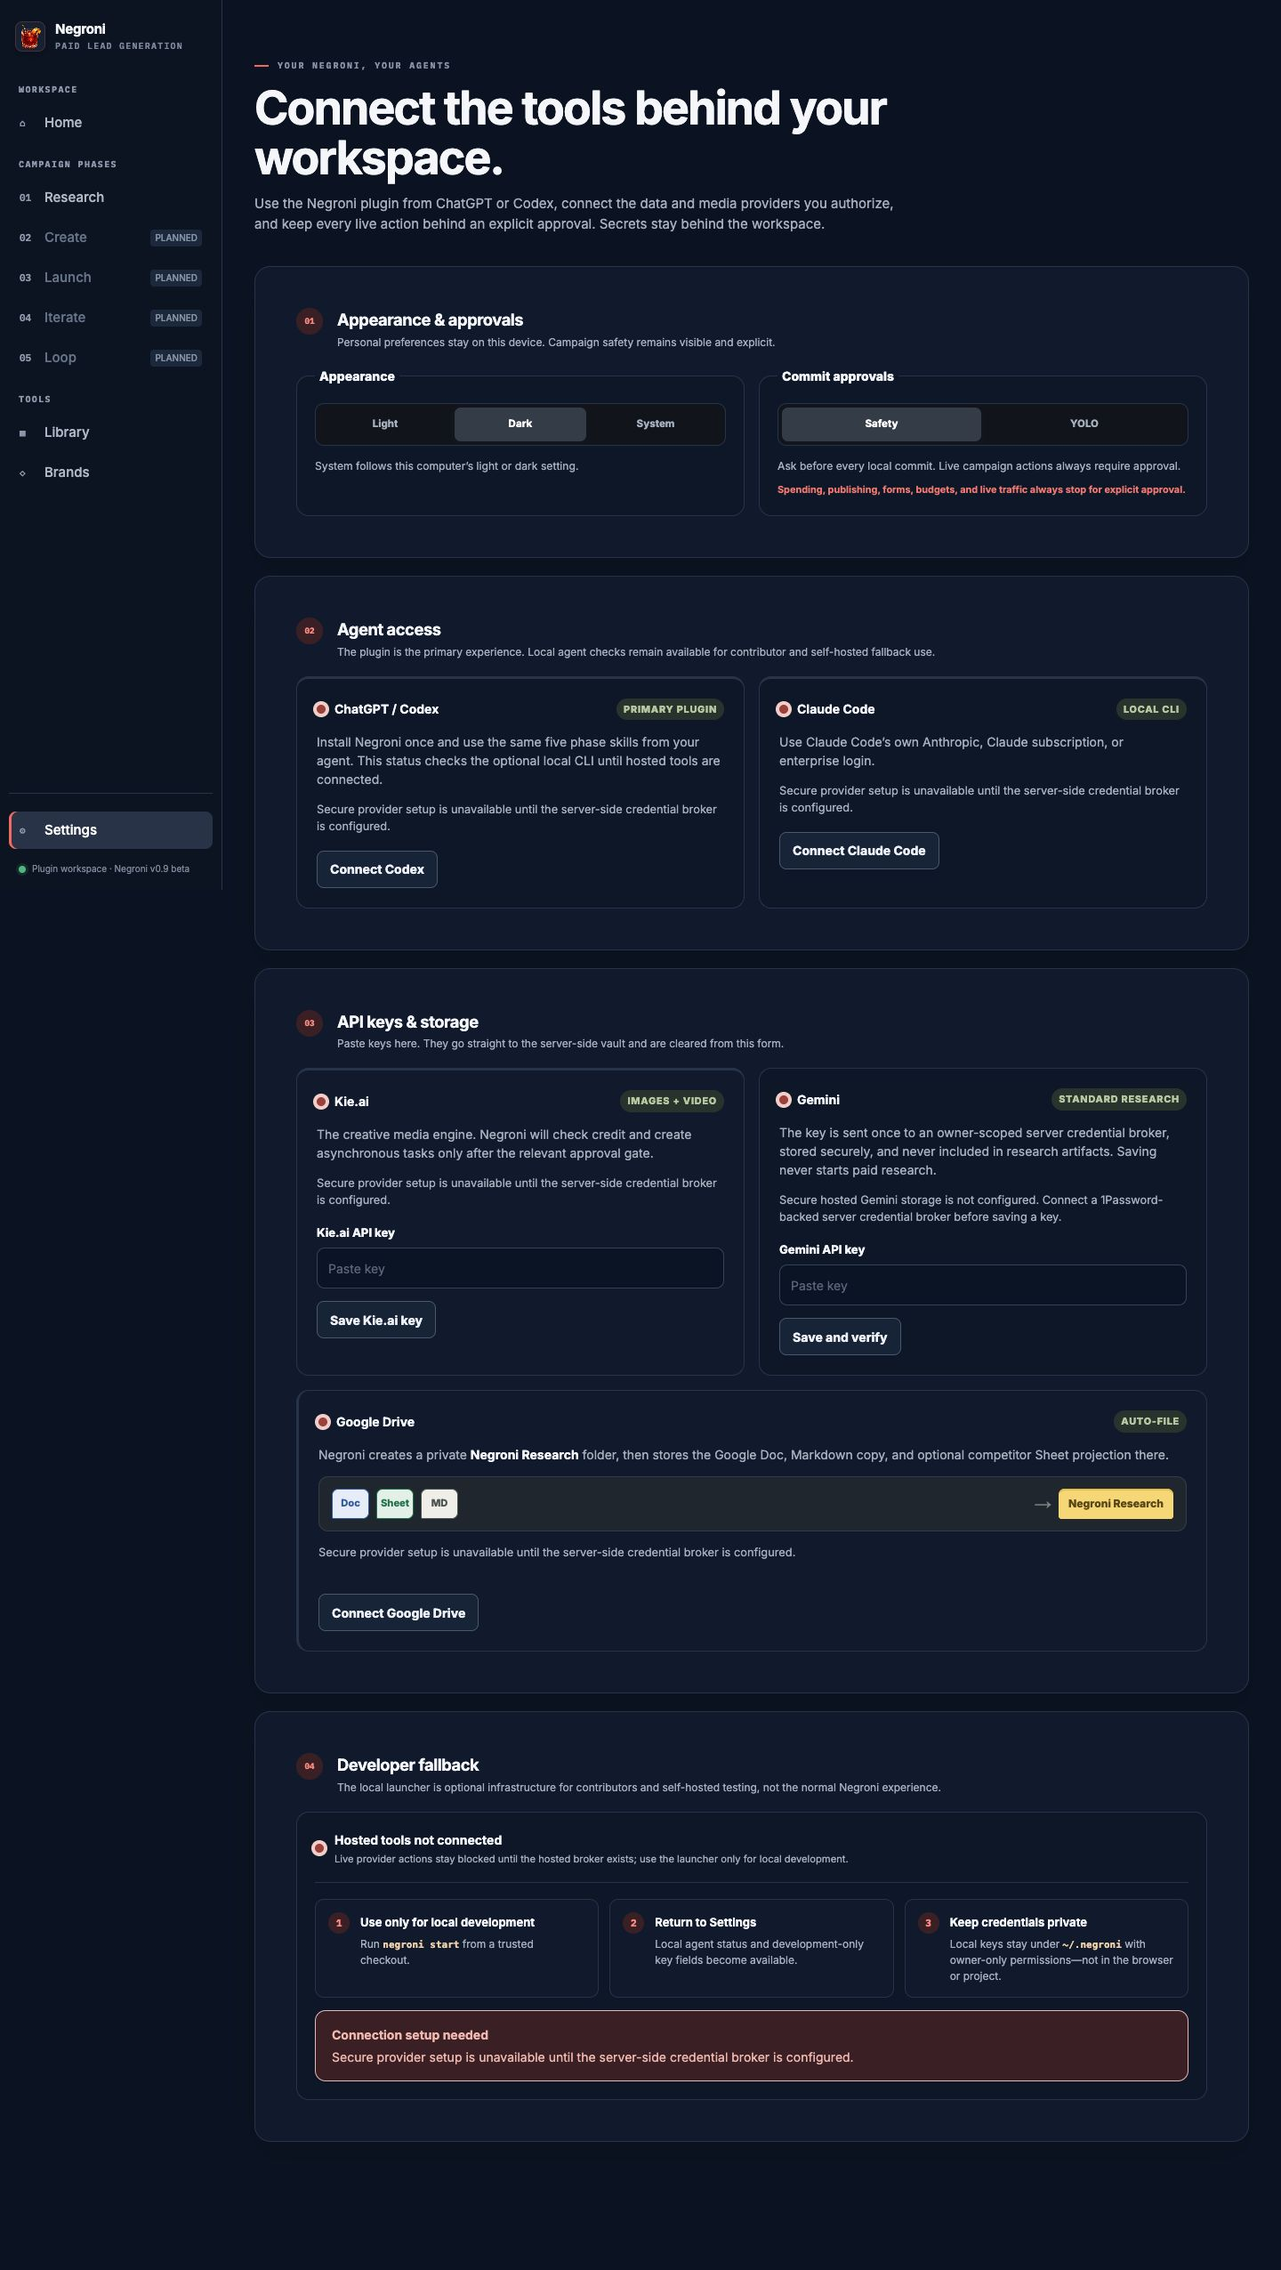
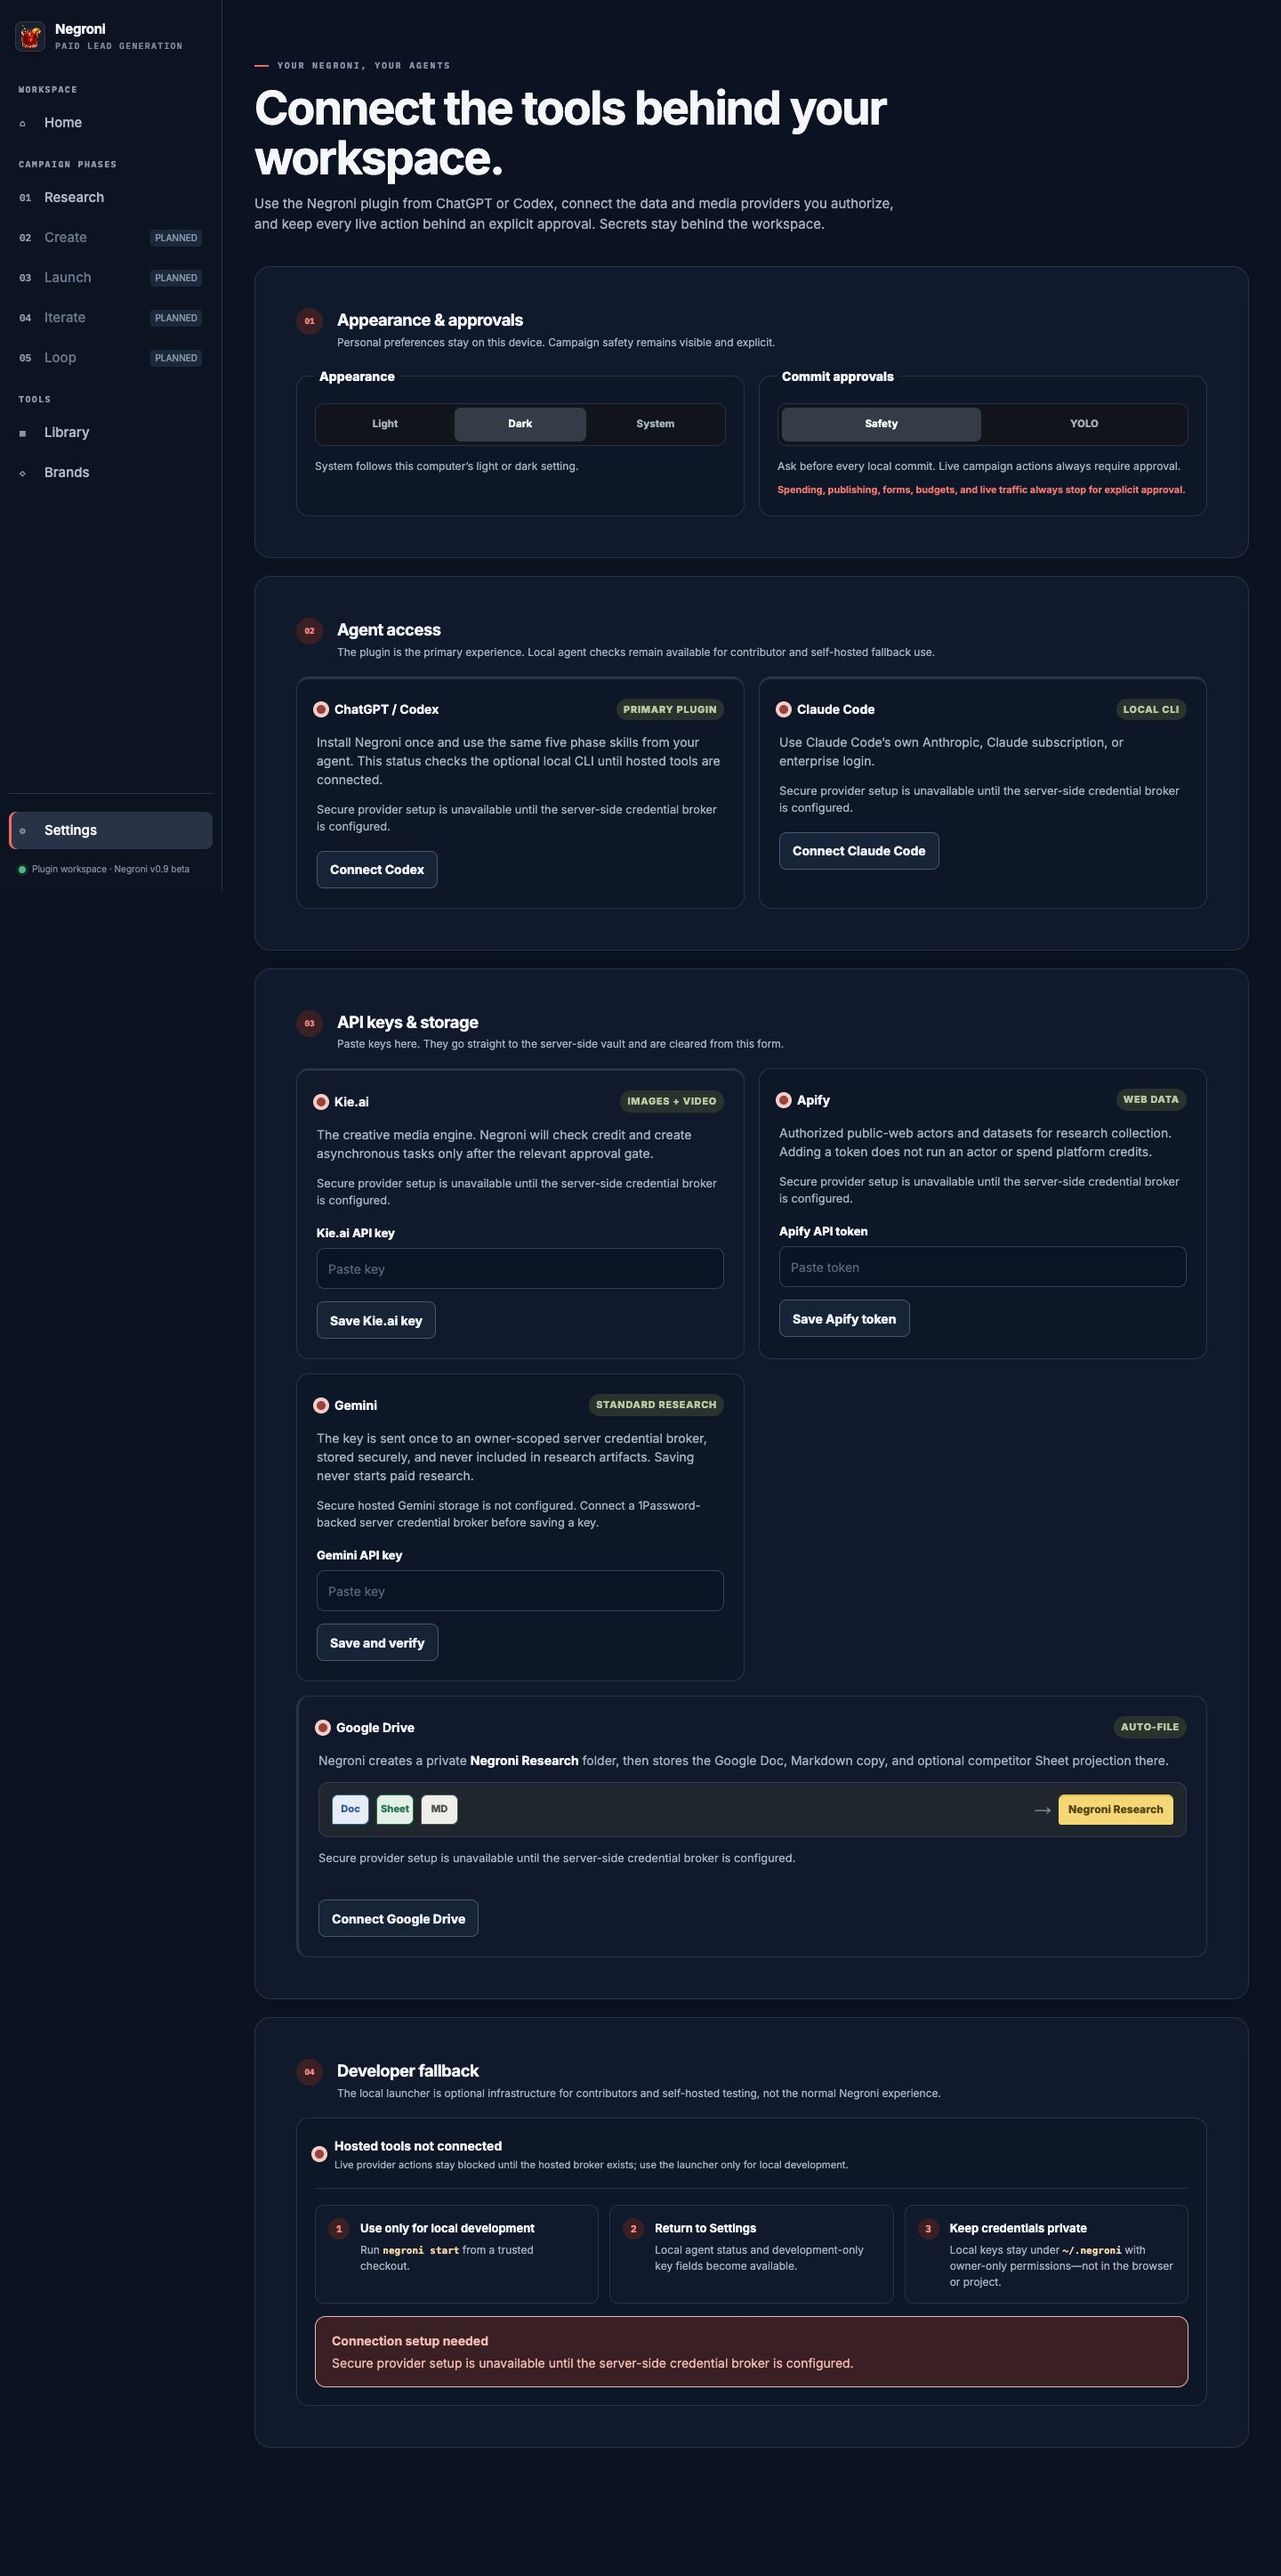
Add Apify API key settings

diff --git a/app/components/intelligence-client.tsx b/app/components/intelligence-client.tsx
@@ -151,6 +151,7 @@ export function IntelligenceClient() {
   const [geminiKey, setGeminiKey] = useState("");
   const [geminiConnection, setGeminiConnection] = useState<GeminiConnection>({ status: "checking", last_verified_at: null, fingerprint: null, last_four: null });
   const [kieKey, setKieKey] = useState("");
+  const [apifyKey, setApifyKey] = useState("");
   const [settingsMessage, setSettingsMessage] = useState<string | null>(null);
   const [settingsBusy, setSettingsBusy] = useState(false);
   const [appearance, setAppearance] = useState<Appearance>("dark");
@@ -418,6 +419,8 @@ export function IntelligenceClient() {
             ? { provider, api_key: geminiKey }
             : provider === "kie_ai"
               ? { provider, api_key: kieKey }
+              : provider === "apify"
+                ? { provider, api_key: apifyKey }
               : { provider },
         ),
       });
@@ -436,6 +439,7 @@ export function IntelligenceClient() {
     } finally {
       setGeminiKey("");
       setKieKey("");
+      setApifyKey("");
       setSettingsBusy(false);
     }
   }
@@ -480,6 +484,7 @@ export function IntelligenceClient() {
   const claudeStatus = providerStatus("claude_code");
   const geminiApiReady = geminiConnection.status === "connected";
   const kieStatus = providerStatus("kie_ai");
+  const apifyStatus = providerStatus("apify");
   const googleStatus = providerStatus("google_drive");
   const selectedProfile = profiles.records.find((profile) => profile.id === selectedProfileId) ?? null;
   const activeBrand = selectedProfile ?? profiles.records[0] ?? null;
@@ -961,6 +966,15 @@ export function IntelligenceClient() {
                 <label htmlFor="kie-key">Kie.ai API key</label>
                 <input id="kie-key" type="password" value={kieKey} onChange={(event) => setKieKey(event.target.value)} placeholder="Paste key" autoComplete="off" disabled={!settingsAvailable} />
                 <button type="submit" disabled={!settingsAvailable || settingsBusy || kieKey.trim().length < 20}>Save Kie.ai key</button>
+              </form>
+
+              <form className="provider-card" onSubmit={(event) => { event.preventDefault(); void connectProvider("apify"); }}>
+                <div><span className={`provider-dot provider-${apifyStatus.status}`} /><strong>Apify</strong><span className="provider-badge">Web data</span></div>
+                <p>Authorized public-web actors and datasets for research collection. Adding a token does not run an actor or spend platform credits.</p>
+                <small>{apifyStatus.status === "connected" ? apifyStatus.detail ?? "Connected" : apifyStatus.blocker ?? "Not connected"}</small>
+                <label htmlFor="apify-key">Apify API token</label>
+                <input id="apify-key" type="password" value={apifyKey} onChange={(event) => setApifyKey(event.target.value)} placeholder="Paste token" autoComplete="off" disabled={!settingsAvailable} />
+                <button type="submit" disabled={!settingsAvailable || settingsBusy || apifyKey.trim().length < 20 || apifyKey.trim().length > 512}>Save Apify token</button>
               </form>
 
               <form className="provider-card" id="gemini-connection" onSubmit={(event) => { event.preventDefault(); void saveGemini(); }}>

diff --git a/app/app/api/settings/route.ts b/app/app/api/settings/route.ts
@@ -36,6 +36,7 @@ export async function GET(request: Request): Promise<Response> {
       { provider: "gemini_api", status: "blocked", blocker: SETTINGS_BLOCKER },
       { provider: "gemini_oauth", status: "blocked", blocker: SETTINGS_BLOCKER },
       { provider: "kie_ai", status: "blocked", blocker: SETTINGS_BLOCKER },
+      { provider: "apify", status: "blocked", blocker: SETTINGS_BLOCKER },
       { provider: "google_drive", status: "blocked", blocker: SETTINGS_BLOCKER, auto_store: false },
     ];
     return Response.json({ available: false, providers, blocker: SETTINGS_BLOCKER }, { headers: { "cache-control": "no-store" } });
@@ -67,10 +68,13 @@ export async function POST(request: Request): Promise<Response> {
   if (body.provider === "kie_ai" && (typeof body.api_key !== "string" || body.api_key.trim().length < 20)) {
     return Response.json({ error: "Enter a valid Kie.ai API key." }, { status: 400 });
   }
+  if (body.provider === "apify" && (typeof body.api_key !== "string" || body.api_key.trim().length < 20 || body.api_key.trim().length > 512)) {
+    return Response.json({ error: "Enter a valid Apify API token." }, { status: 400 });
+  }
   const returnToUrl = new URL("/", request.url);
   returnToUrl.searchParams.set("view", "settings");
   returnToUrl.searchParams.set("provider", body.provider ?? "");
-  const brokerBody = body.provider === "gemini_api" || body.provider === "kie_ai"
+  const brokerBody = body.provider === "gemini_api" || body.provider === "kie_ai" || body.provider === "apify"
     ? { provider: body.provider, api_key: body.api_key }
     : body.provider === "google_drive"
       ? {
@@ -93,7 +97,7 @@ export async function POST(request: Request): Promise<Response> {
   });
   const payload = await response.json() as { authorization_url?: unknown; connected?: unknown; message?: unknown };
   if (!response.ok) return Response.json({ error: "The provider connection could not be completed." }, { status: 502 });
-  if (body.provider === "gemini_api" || body.provider === "kie_ai"
+  if (body.provider === "gemini_api" || body.provider === "kie_ai" || body.provider === "apify"
     || typeof payload.connected === "boolean" || typeof payload.message === "string") {
     return Response.json(
       { connected: payload.connected === true, message: typeof payload.message === "string" ? payload.message : undefined },

diff --git a/app/tests/provider-settings.test.ts b/app/tests/provider-settings.test.ts
@@ -22,6 +22,7 @@ function connectedSettings(): {
       { provider: "gemini_api", status: "not_connected", blocker: null },
       { provider: "gemini_oauth", status: "not_connected", blocker: null },
       { provider: "kie_ai", status: "not_connected", blocker: null },
+      { provider: "apify", status: "not_connected", blocker: null },
       {
         provider: "google_drive",
         status: "connected",
@@ -36,7 +37,7 @@ function connectedSettings(): {
 }
 
 test("provider settings require the complete supported-provider set", () => {
-  assert.equal(parseSettingsResponse(connectedSettings()).providers.length, 6);
+  assert.equal(parseSettingsResponse(connectedSettings()).providers.length, 7);
   const incomplete = connectedSettings();
   incomplete.providers.pop();
   assert.throws(() => parseSettingsResponse(incomplete), /complete provider state/);
@@ -44,7 +45,7 @@ test("provider settings require the complete supported-provider set", () => {
 
 test("connected Google Workspace requires safe automatic filing metadata", () => {
   const missingFolder = connectedSettings();
-  missingFolder.providers[5].folder_id = "";
+  missingFolder.providers[6].folder_id = "";
   assert.throws(() => parseSettingsResponse(missingFolder), /incomplete Google Workspace/);
 
   assert.equal(GOOGLE_DRIVE_SCOPE, "https://www.googleapis.com/auth/drive.file");
@@ -81,7 +82,7 @@ test("workspace identity is normalized and local preview stays isolated", () => 
 
 test("sanitized provider status never forwards broker credential fields", () => {
   const settings = connectedSettings();
-  settings.providers[5].refresh_token = "must-not-cross-the-boundary";
+  settings.providers[6].refresh_token = "must-not-cross-the-boundary";
   const parsed = parseSettingsResponse(settings);
-  assert.equal("refresh_token" in parsed.providers[5], false);
+  assert.equal("refresh_token" in parsed.providers[6], false);
 });

diff --git a/app/tests/local-bridge-security.test.ts b/app/tests/local-bridge-security.test.ts
@@ -105,6 +105,35 @@ test("local broker never returns command output in provider status", async () =>
   }
 });
 
+test("local broker stores an Apify token without returning it to the browser", async () => {
+  const directory = await mkdtemp(join(tmpdir(), "negroni-apify-broker-"));
+  const port = await unusedPort();
+  const token = "local-bridge-test-token";
+  const apiKey = "apify_api_test_token_never_returned";
+  const credentialsPath = join(directory, "credentials.json");
+  const broker = spawn(process.execPath, [brokerPath], {
+    env: { ...process.env, NEGRONI_BROKER_PORT: String(port), CREDENTIAL_BROKER_TOKEN: token, NEGRONI_CREDENTIALS_PATH: credentialsPath },
+  });
+  try {
+    await waitForStatus(port, token);
+    const save = await fetch(`http://127.0.0.1:${port}/v1/providers/connect`, {
+      method: "POST",
+      headers: { authorization: `Bearer ${token}`, "content-type": "application/json" },
+      body: JSON.stringify({ provider: "apify", api_key: apiKey }),
+    });
+    assert.equal(save.status, 200);
+    assert.equal((await save.text()).includes(apiKey), false);
+    const status = await waitForStatus(port, token);
+    const body = await status.text();
+    assert.equal(body.includes(apiKey), false);
+    assert.match(body, /"provider":"apify","status":"connected"/);
+  } finally {
+    broker.kill("SIGTERM");
+    await new Promise<void>((resolvePromise) => broker.once("exit", () => resolvePromise()));
+    await rm(directory, { recursive: true, force: true });
+  }
+});
+
 test("local broker keeps the Gemini key server-side and fixes the standard Deep Research agent", async () => {
   const directory = await mkdtemp(join(tmpdir(), "negroni-gemini-broker-"));
   const brokerPort = await unusedPort();

diff --git a/app/lib/intelligence/contracts.ts b/app/lib/intelligence/contracts.ts
@@ -144,7 +144,7 @@ export type ProfilesResponse = {
 };
 
 export type ProviderStatus = {
-  provider: "codex_cli" | "claude_code" | "gemini_api" | "gemini_oauth" | "kie_ai" | "google_drive";
+  provider: "codex_cli" | "claude_code" | "gemini_api" | "gemini_oauth" | "kie_ai" | "apify" | "google_drive";
   status: "connected" | "not_connected" | "blocked";
   blocker: string | null;
   detail?: string | null;

diff --git a/app/lib/provider-settings.ts b/app/lib/provider-settings.ts
@@ -6,6 +6,7 @@ export const PROVIDERS = [
   "gemini_api",
   "gemini_oauth",
   "kie_ai",
+  "apify",
   "google_drive",
 ] as const;
 export const GOOGLE_DRIVE_SCOPE = "https://www.googleapis.com/auth/drive.file";

diff --git a/app/STATUS.md b/app/STATUS.md
@@ -35,7 +35,7 @@ ships a validated plugin manifest, onboarding skill, and five phase skills:
 - an authoritative local SQLite catalog, immutable learning versions, FTS5,
   rebuildable non-authoritative vectors, content-addressed media, and guarded
   Obsidian-compatible Markdown projections;
-- Settings tab for Codex CLI, Claude Code, Gemini API key or OAuth, Kie.ai,
+- Settings tab for Codex CLI, Claude Code, Gemini API key or OAuth, Kie.ai, Apify,
   Google Drive, appearance, and Safety/YOLO mode;
 - an optional developer `@negroni/local` package with the `negroni start` and
   `negroni doctor` commands; and
@@ -153,7 +153,7 @@ browser and continues to report unavailable hosted capabilities as blocked.
 - Plugin contract tests: 4/4 passed
 - Application contract/security tests: 122/122 passed
 - Vinext production build: passed
-- Install smoke test: global package, local app, and six-provider Settings API passed
+- Install smoke test: global package, local app, and seven-provider Settings API passed
 - Visual QA: Home, Research, Library, Brands, and Settings passed at desktop
   and mobile sizes, 121/121 checks
 - Accessibility: zero serious or critical Axe violations across all tested states
@@ -171,7 +171,7 @@ Configure these server-side values with their real services:
 
 The runner must invoke the implemented Meta Ads Intelligence adapter, expose
 access-controlled report URLs, and provide an authorized collection route.
-The hosted broker must implement the six-provider contract, including an
+The hosted broker must implement the seven-provider contract, including Apify and an
 encrypted Gemini `SecretStore` plus non-generative Google verifier. The local
 bridge still needs a Google OAuth client ID before Google Drive can connect.
 
